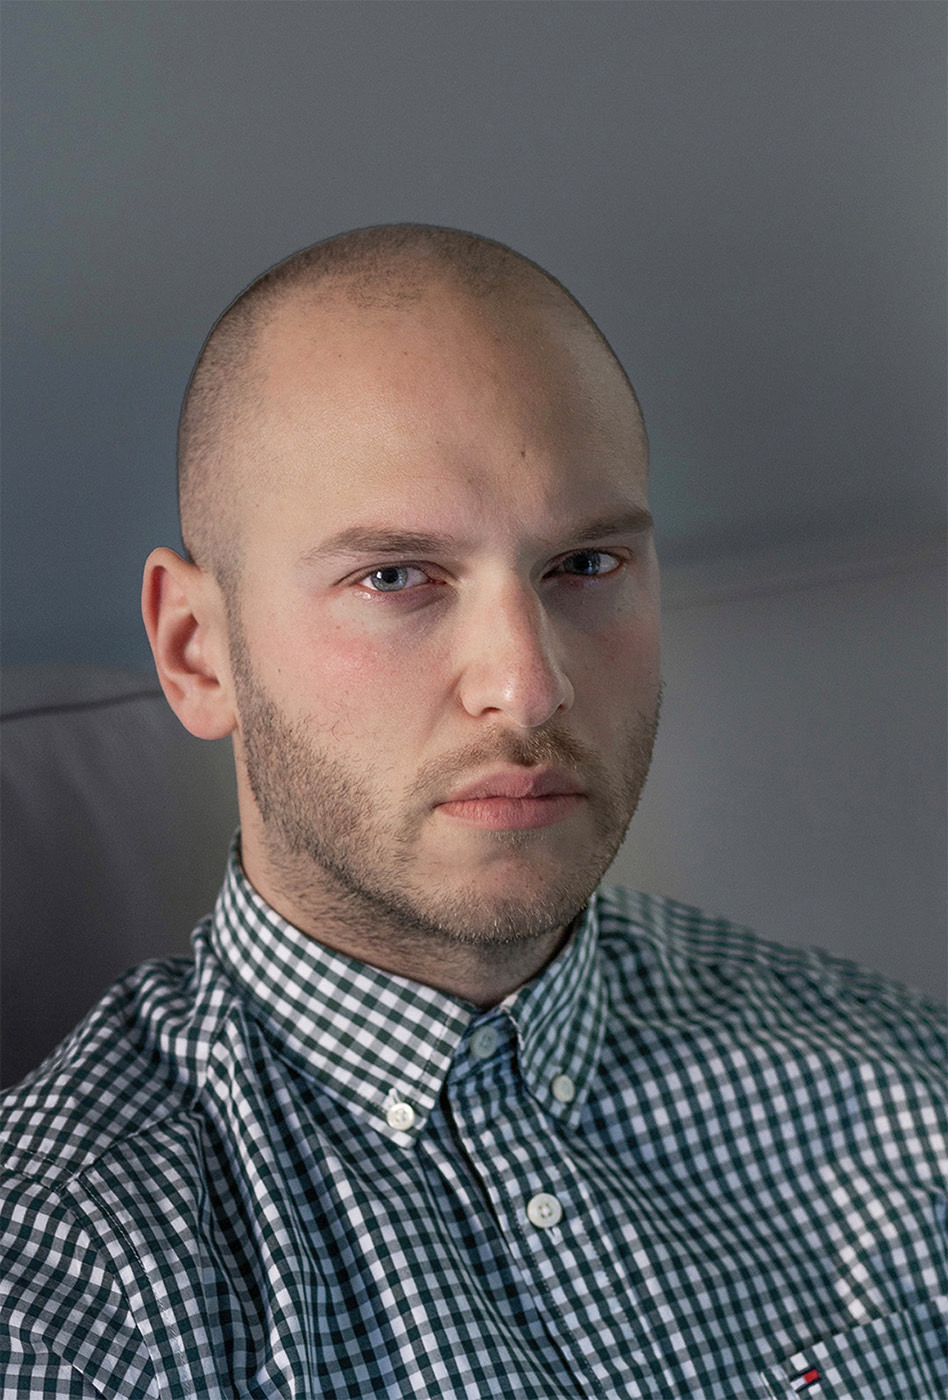
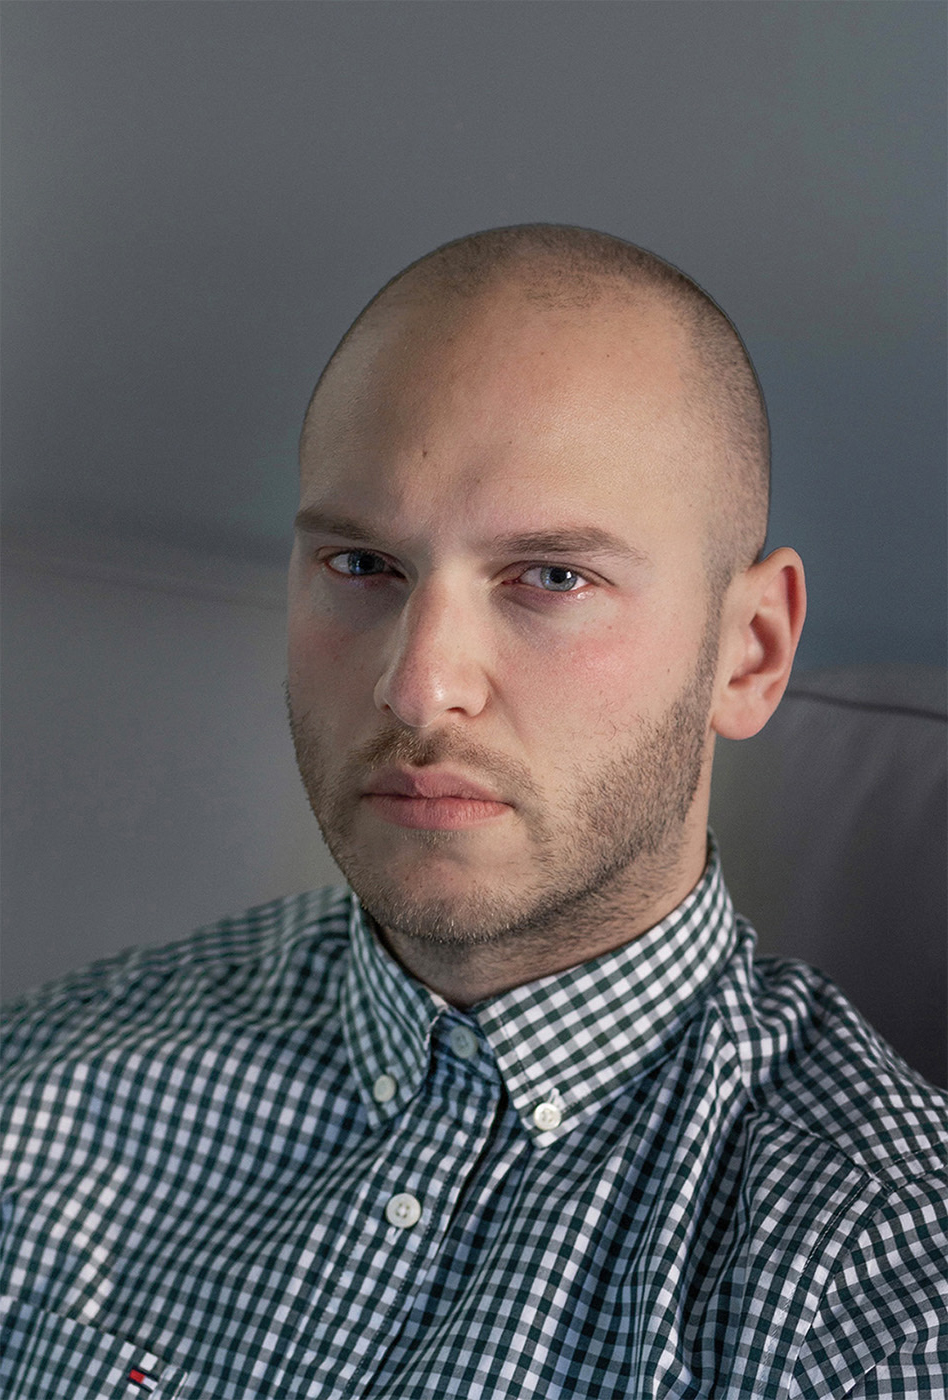
modificheritratti

diff --git a/themes/pure-shit/layouts/index.html b/themes/pure-shit/layouts/index.html
@@ -4,7 +4,7 @@
         <div class='col-md-2 col-md-2'></div>
         <div class='col-md-10 col-sm-8'></div>
             <img id="target" class='insetimg' src="img/001.jpg">
-            <img id='targetmobile' class='insetimg-m' src='img/_MG_8590.jpg'> 
+            <img id='targetmobile' class='insetimg-m' src='img/009.jpg'> 
 
         </div>
     </div>
